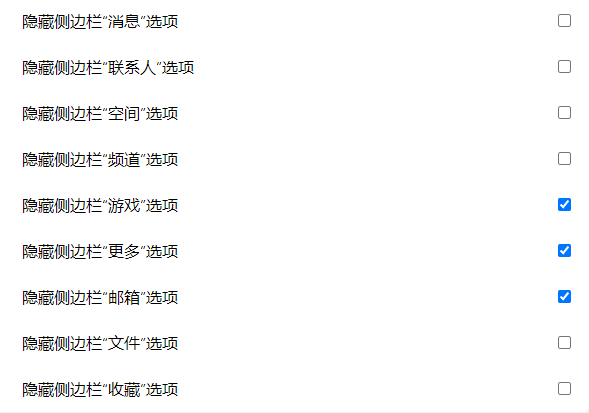
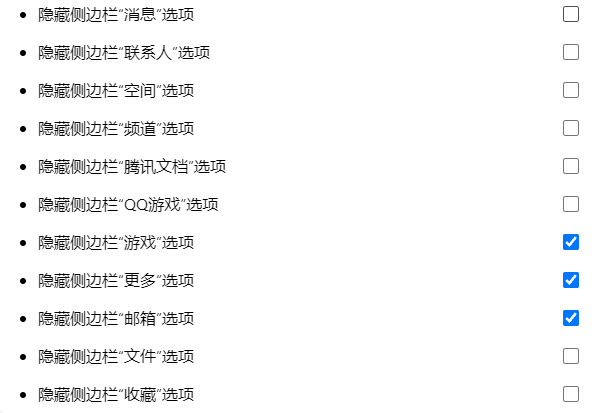
Update

diff --git a/sidebar-management.css b/sidebar-management.css
@@ -10,7 +10,7 @@
 @var checkbox hide-contact "隐藏侧边栏“联系人”选项" [0, "inline-flex", "none"]
 @var checkbox hide-qzone "隐藏侧边栏“空间”选项" [0, "inline-flex", "none"]
 @var checkbox hide-channels "隐藏侧边栏“频道”选项" [0, "inline-flex", "none"]
-@var checkbox hide-docs "隐藏侧边栏“QQ文档”选项" [0, "inline-flex", "none"]
+@var checkbox hide-docs "隐藏侧边栏“腾讯文档”选项" [0, "inline-flex", "none"]
 @var checkbox hide-QQgames "隐藏侧边栏“QQ游戏”选项" [0, "inline-flex", "none"]
 @var checkbox hide-games "隐藏侧边栏“游戏”选项" [0, "inline-flex", "none"]
 @var checkbox hide-more "隐藏侧边栏“更多”选项" [0, "inline-flex", "none"]
